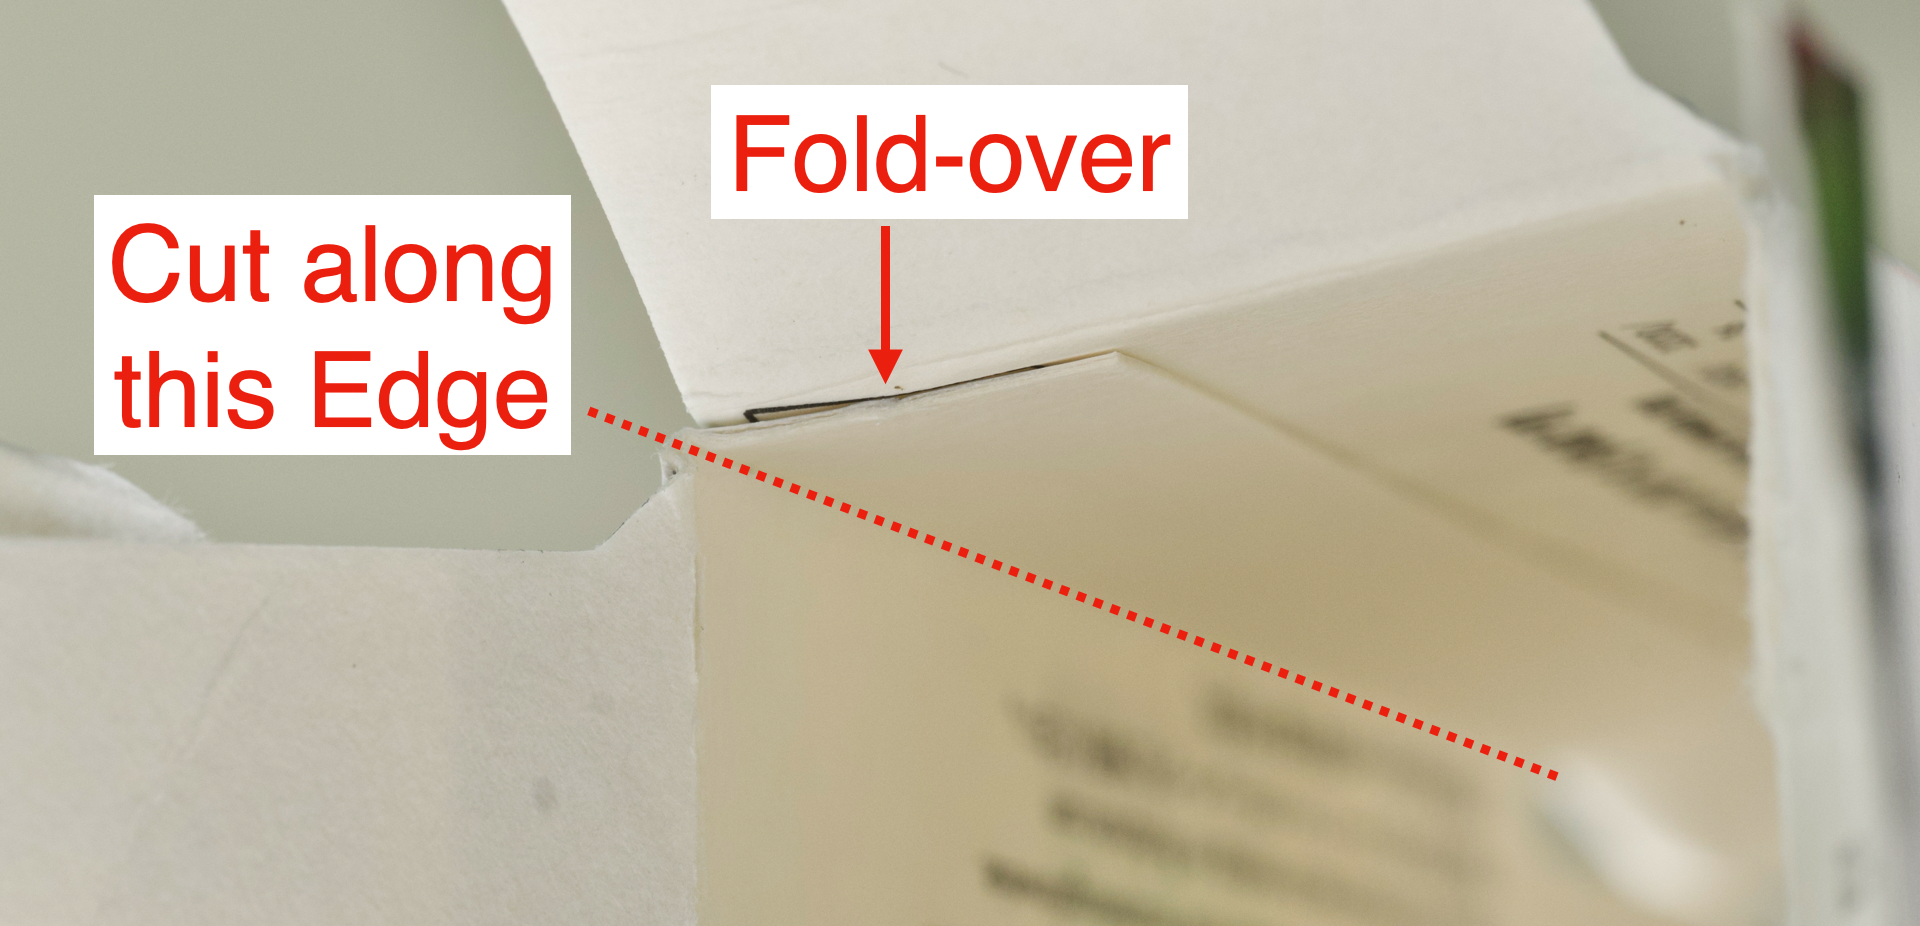
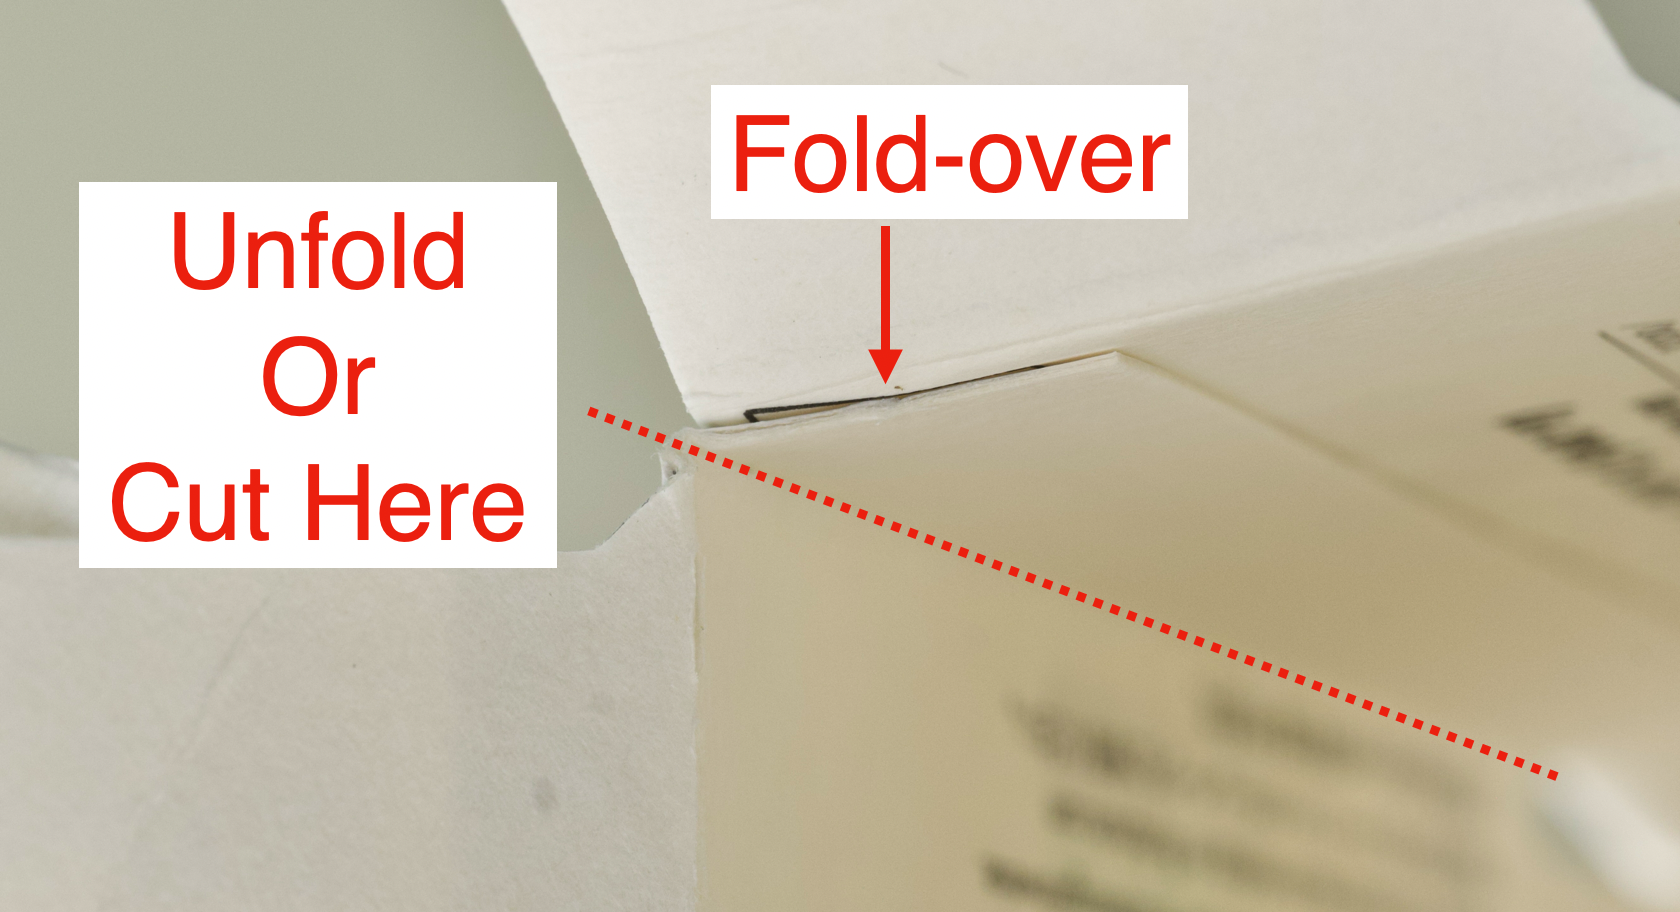
updated unfold steps

diff --git a/contribution_guide.md b/contribution_guide.md
@@ -39,7 +39,7 @@ Each box is different, but generally you can:
 
 * Look inside the box
 * Locate the corner with the fold-over
-* Cut straight along its edge
+* Unfold (or cut) along the edge
 
 ![title](resources/fold.png)
 
